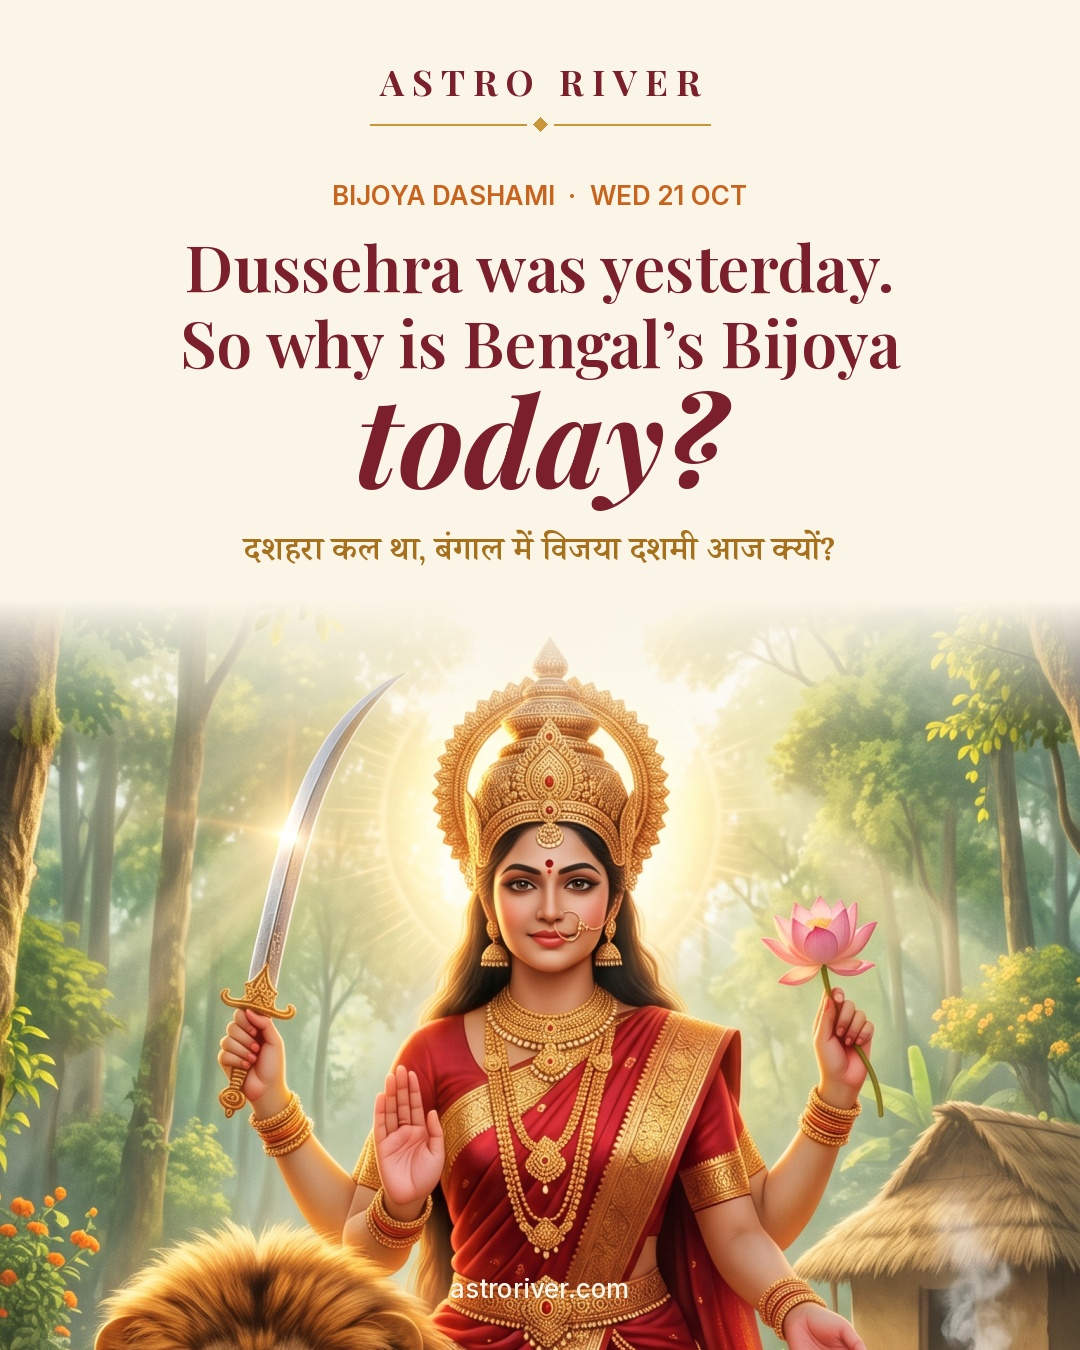
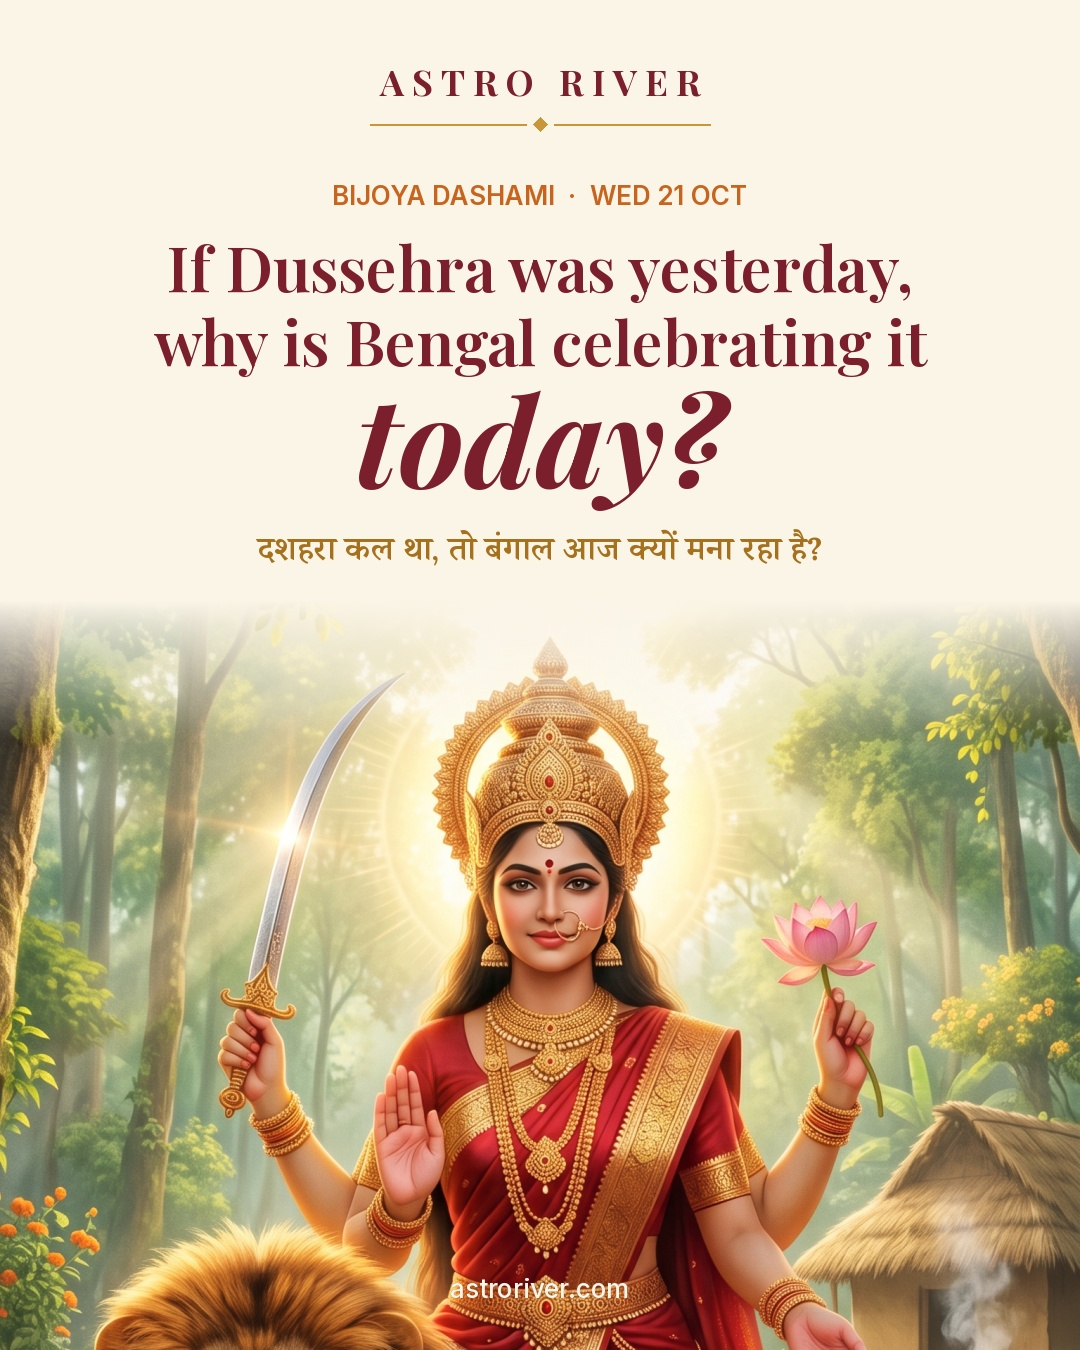
Bijoya cover: one festival, two days
If Dussehra was yesterday, why is Bengal celebrating it today?

Changed region(s): [[0.1528, 0.1867, 0.8556, 0.28], [0.2139, 0.3733, 0.7639, 0.4356]]

diff --git a/build/bijoya_carousel.py b/build/bijoya_carousel.py
@@ -39,10 +39,10 @@ def s1(out):                                                                    
     im = Image.fromarray((p * a + base * (1 - a)).astype(np.uint8)); im, d = frame(im)
     d.text((W / 2, H - 52), 'astroriver.com', font=font(INTER, 26, 500), fill=IVORY, anchor='ms')
     d.text((W / 2, 205), 'BIJOYA DASHAMI  ·  WED 21 OCT', font=font(INTER, 26, 600), fill=(200, 100, 30), anchor='ms')
-    d.text((W / 2, 292), 'Dussehra was yesterday.', font=font(PF, 64, 600), fill=MAROON, anchor='ms')
-    d.text((W / 2, 368), 'So why is Bengal’s Bijoya', font=font(PF, 64, 600), fill=MAROON, anchor='ms')
+    d.text((W / 2, 292), 'If Dussehra was yesterday,', font=font(PF, 62, 600), fill=MAROON, anchor='ms')   # the founder's hook, 21 Oct:
+    d.text((W / 2, 366), 'why is Bengal celebrating it', font=font(PF, 62, 600), fill=MAROON, anchor='ms')  # one festival, two days
     d.text((W / 2, 488), 'today?', font=font(PFI, 124, 700), fill=MAROON, anchor='ms')
-    text(d, (W / 2, 560), 'दशहरा कल था, बंगाल में विजया दशमी आज क्यों?', SEMI, 34, DGOLD, 'ms')
+    text(d, (W / 2, 560), 'दशहरा कल था, तो बंगाल आज क्यों मना रहा है?', SEMI, 34, DGOLD, 'ms')
     im.save(os.path.join(out, 'bijoya-1.jpg'), quality=95)
 
 
